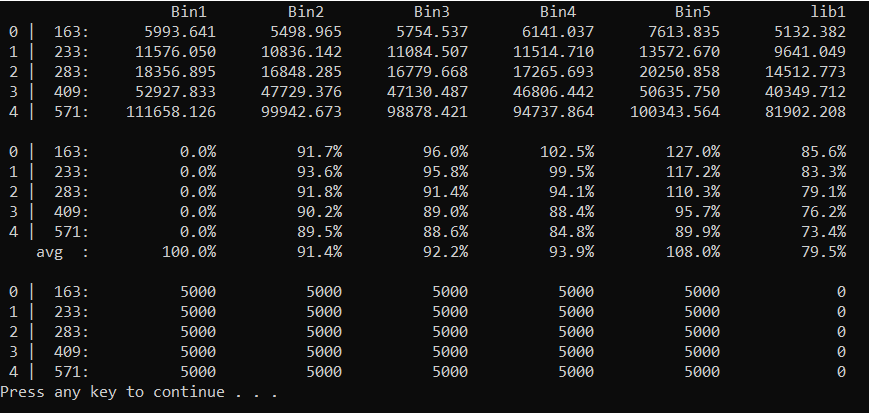
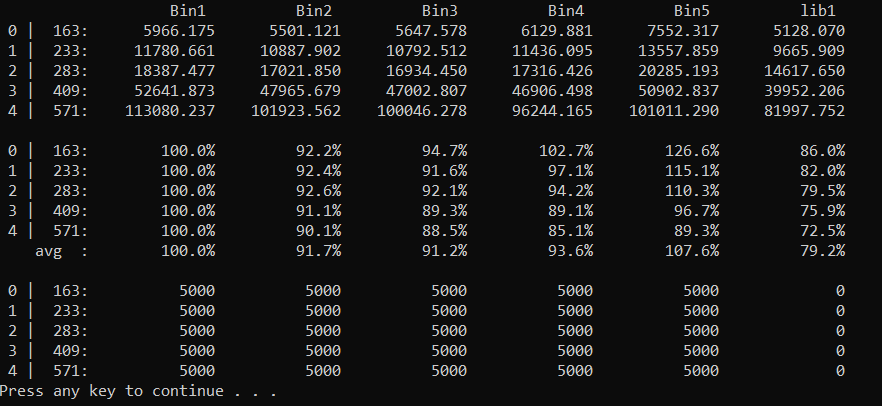
test bins

diff --git a/Paper/newtest.cpp b/Paper/newtest.cpp
@@ -1,6 +1,6 @@
 #include "Test.h"
 
-#define TESTS 5
+#define TESTS 5000
 #define REPEAT 10
 void compares(csprng &Rng, pepoint P, big n, Result &res)
 {
@@ -48,7 +48,7 @@ void compares(csprng &Rng, pepoint P, big n, Result &res)
 			dur1 = getTickCount(&timer1);
 			min1 = (min1 < dur1) ? min1 : dur1; 
 
-			// JSF2
+			// Bin2
 			startTimer(&timer2);
 			ShamirDecompose(k, P, a, Q, b);
 			ShamirMul_Bin(a, P, b, Q, R2);
@@ -57,33 +57,33 @@ void compares(csprng &Rng, pepoint P, big n, Result &res)
 			dur2 = getTickCount(&timer2);
 			min2 = (min2 < dur2) ? min2 : dur2; 
 
-			// JSF3
+			// bin3
 			startTimer(&timer3);
 			//ShamirDecompose3(k, k1, k2, k3, P, P1, P2, P3);
 			//ShamirMul_Bin3_ptr(&shrOpt, k1, k2, k3, P1, P2, P3, R3);
 			ShamirDecompose_n(3, k, kx, P, Px);
-			//ShamirMul_Bin_n(3, &shrOpt, kx, Px, R3);
-			ShamirMul_dJSF(3, kx, Px, R3);
+			ShamirMul_Bin_n(3, kx, Px, R3);
+			//ShamirMul_dJSF(3, kx, Px, R3);
 			stopTimer(&timer3);
 			dur3 = getTickCount(&timer3);
 			min3 = (min3 < dur3) ? min3 : dur3; 
 
-			// JSF4
+			// bin4
 			startTimer(&timer4);
 			ShamirDecompose_n(4, k, kx, P, Px);
-			//ShamirMul_Bin_n(4, &shrOpt, kx, Px, R4);
+			ShamirMul_Bin_n(4, kx, Px, R4);
 			//ShamirDecompose(k, P, a, Q, b);
 			//ShamirMul_JSF(&shrOpt, a, P, b, Q, R4);
-			ShamirMul_dJSF(4, kx, Px, R4);
+			//ShamirMul_dJSF(4, kx, Px, R4);
 			stopTimer(&timer4);
 			dur4 = getTickCount(&timer4);
 			min4 = (min4 < dur4) ? min4 : dur4; 
 
-			// JSF5
+			// bin5
 			startTimer(&timer5);
 			ShamirDecompose_n(5, k, kx, P, Px);
-			//ShamirMul_Bin_n(5, &shrOpt, kx, Px, R5);
-			ShamirMul_dJSF(5, kx, Px, R5);
+			ShamirMul_Bin_n(5, kx, Px, R5);
+			//ShamirMul_dJSF(5, kx, Px, R5);
 			//ShamirDecompose(k, P, a, Q, b);
 			//ecurve2_mult2(a, P, b, Q, R5);
 			stopTimer(&timer5);

diff --git a/Paper/main.cpp b/Paper/main.cpp
@@ -43,13 +43,13 @@ int main()
 		//TestShrMul_Bin(Rng, P, n, msg);
 		//test_bin3(Rng, P, n, msg);
 		//test_bin_n(3, Rng, P, n, msg);
-		test_dJSF(3, Rng, P, n, msg);
-		//compares(Rng, P, n, res[i]);
+		//test_dJSF(3, Rng, P, n, msg);
+		compares(Rng, P, n, res[i]);
 	}
 	//cout << endl << "without PreMul_Bin_n norm" << endl;
 	//cout << setw(19) << "" << "n=1           n=2           n=3           n=3           JSF3        lib(n=3)\n";
-	//cout << setw(19) << "" <<   "Bin1         JSF2         dJSF2          JSF4           JSF5           lib2\n";
-	//printcompares_bin(res, m);
+	cout << setw(19) << "" <<   "Bin1          Bin2          Bin3          Bin4          Bin5          lib1\n";
+	printcompares_bin(res, m);
 
 	//cout << endl << "\a\a\a\a\a\a\a\a\a\a\a" << endl;
 
